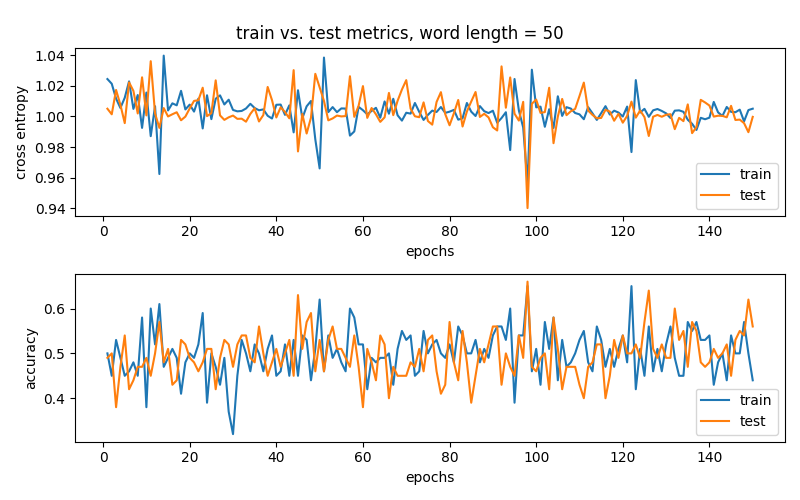
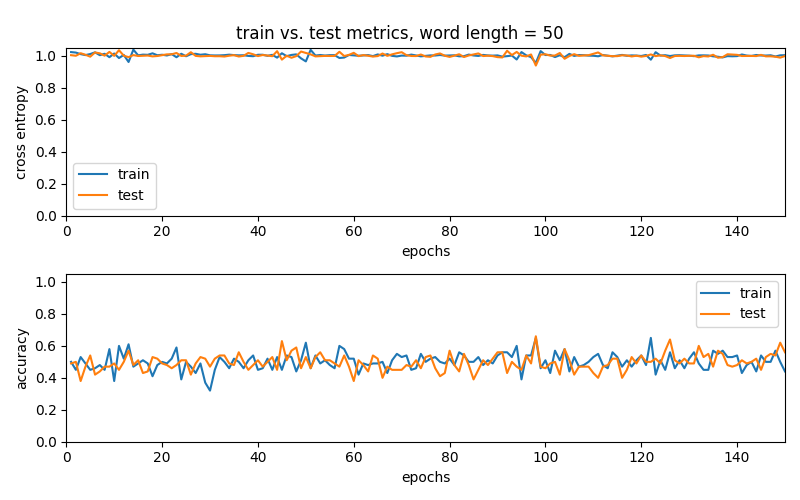
fix axes on plots

diff --git a/src/plot_results.py b/src/plot_results.py
@@ -31,6 +31,8 @@ for filename in os.listdir(results_dir):
         #ax1.set_title('cross entropy',  fontsize='small')
         ax1.set_xlabel('epochs')
         ax1.set_ylabel('cross entropy')
+        ax1.set_xlim([0, int(num_epochs)])
+        ax1.set_ylim([0, 1.05])
         ax1.legend()
         # plot accuracy development on the second
         ax2.plot(epochs,all_train_acc, label='train')
@@ -38,6 +40,8 @@ for filename in os.listdir(results_dir):
         #ax2.set_title('accuracy',  fontsize='small')
         ax2.set_xlabel('epochs')
         ax2.set_ylabel('accuracy')
+        ax2.set_ylim([0, 1.05])
+        ax2.set_xlim([0, int(num_epochs)])
         ax2.legend()
 
         plt.tight_layout()

diff --git a/README.md b/README.md
@@ -34,14 +34,16 @@ pip install -r requirements.txt
 ### Base Line Experiments
 Reproduce the base line experiments by executing
 ```
-python src/base_experiments.py
+cd src
+python base_experiments.py
 ```
 You can change the output folder name in `base_experiments.py` to clearly separate your results.
 
 ### Recognize DYCK Language
 Generate Dyck examples and train a model by executing
 ```
-python src/dyck.py
+cd src
+python dyck.py
 ```
 | argument       | type  | default | explanation                                                                                        |
 |----------------|-------|---------|----------------------------------------------------------------------------------------------------|
@@ -68,7 +70,8 @@ Model Parameters
 ### Create Plots From Results
 You can create plots of train and test metrics for different word lengths by executing the corresponding script:
 ```
-python src/plot_results.py
+cd src
+python plot_results.py
 ```
 When your results are not stored under `results/`, change the folder name in the file `plot_results.py`.
 
